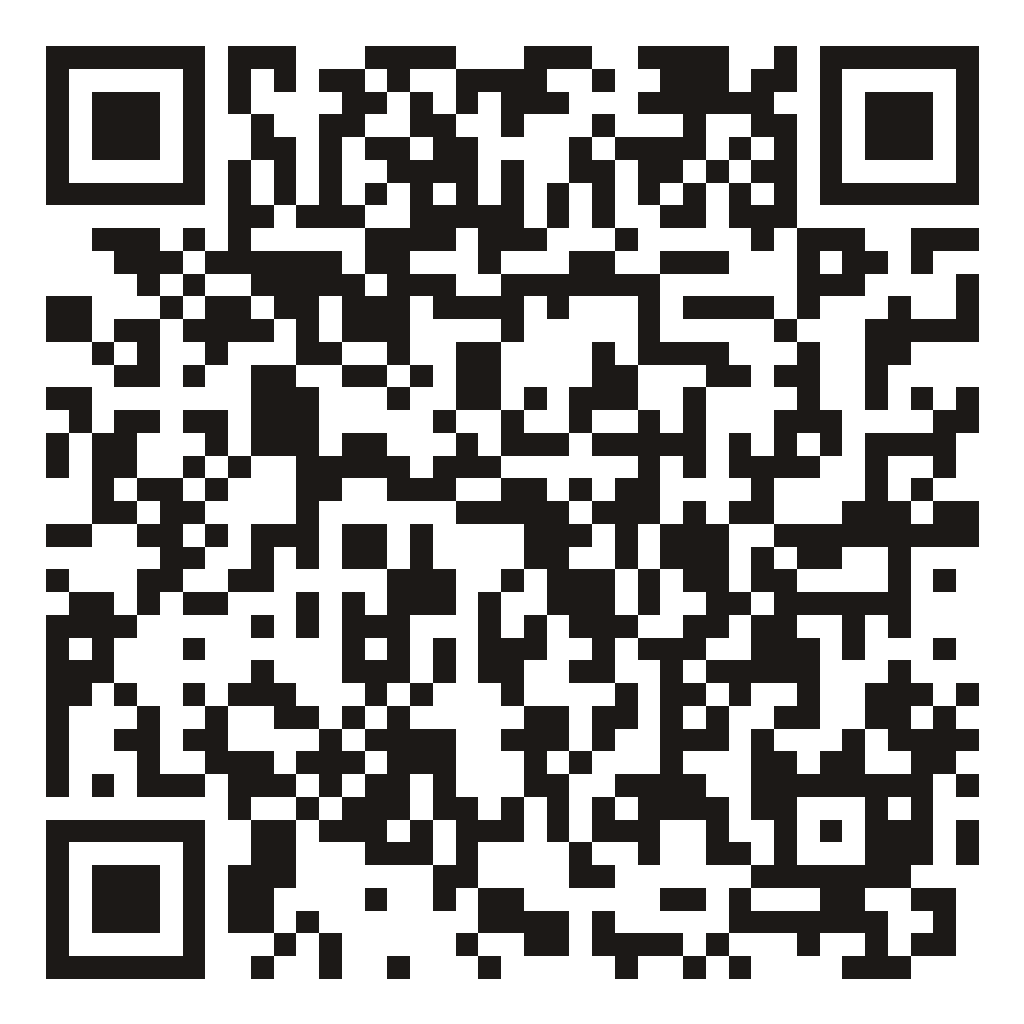
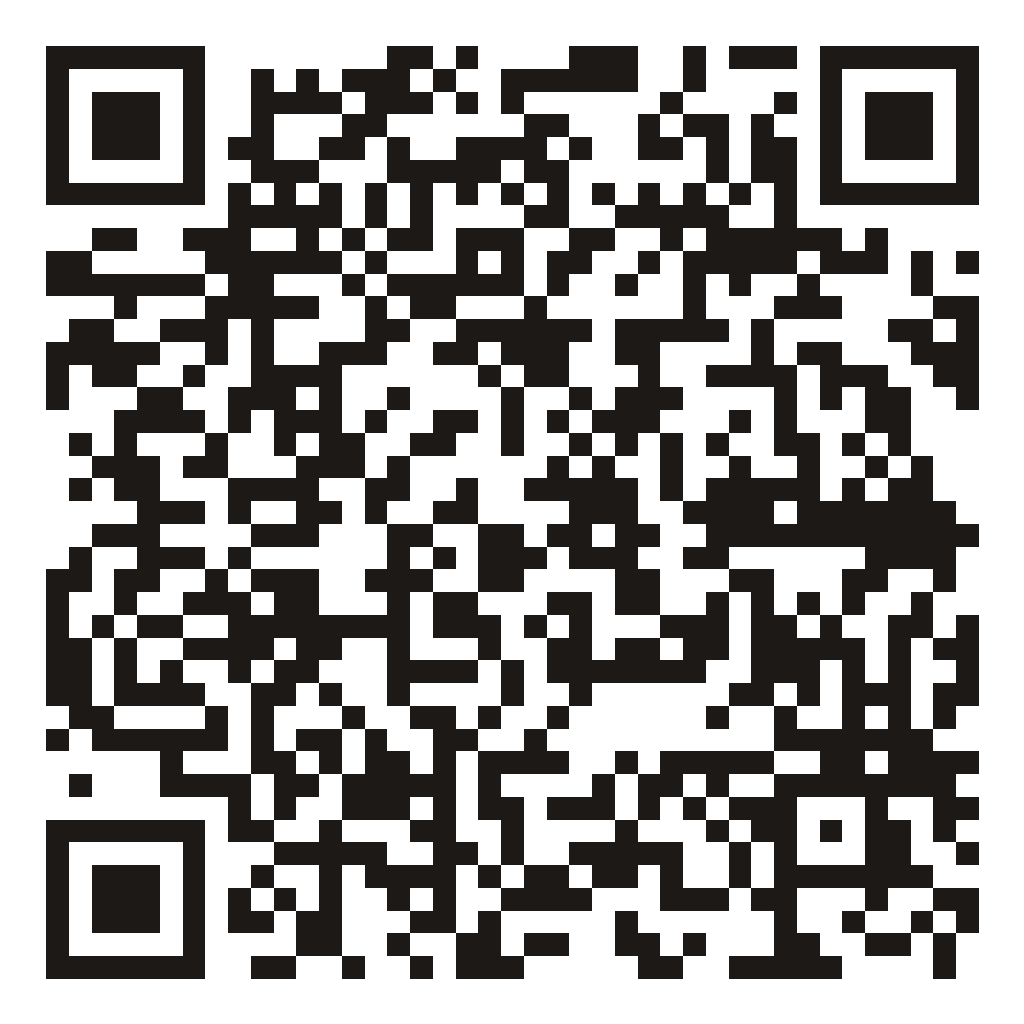
feat(prod): configure production domain for live QR codes and add localStorage resilience for Vercel deployment

diff --git a/client/public/qr-placards/index.html b/client/public/qr-placards/index.html
@@ -286,18 +286,18 @@
     <div class="url-switcher-box">
       <div style="font-size: 12px; font-weight: 700; color: #1C1917;">Sélectionnez la destination des QR codes :</div>
       <div class="url-presets">
-        <button class="btn-preset active" id="btn-local" onclick="setBaseUrl('http://192.168.1.239:3001')">
-          📱 Test Wi-Fi Smartphone (http://192.168.1.239:3001)
-        </button>
-        <button class="btn-preset" id="btn-prod" onclick="setBaseUrl('https://riadatlasacacia.com')">
+        <button class="btn-preset active" id="btn-prod" onclick="setBaseUrl('https://riadatlasacacia.com')">
           🌐 Domaine Production (https://riadatlasacacia.com)
+        </button>
+        <button class="btn-preset" id="btn-local" onclick="setBaseUrl('http://192.168.1.239:3001')">
+          📱 Test Wi-Fi Smartphone (http://192.168.1.239:3001)
         </button>
         <button class="btn-preset" id="btn-origin" onclick="setBaseUrl(window.location.origin)">
           💻 Hôte Actuel (Host)
         </button>
       </div>
       <div class="url-input-row">
-        <input type="text" id="custom-url-input" class="url-input" value="http://192.168.1.239:3001" placeholder="https://votre-domaine.com">
+        <input type="text" id="custom-url-input" class="url-input" value="https://riadatlasacacia.com" placeholder="https://votre-domaine.com">
         <button class="url-apply-btn" onclick="applyCustomUrl()">Mettre à jour les QR</button>
       </div>
     </div>
@@ -319,7 +319,7 @@
           <img id="qr-img-atlas" class="qr-img" src="/qr-placards/qr-suite-atlas.png" alt="Suite Atlas QR Code" />
         </div>
 
-        <div class="target-url-text" id="url-text-atlas">http://192.168.1.239:3001/?src=qr-room&room=atlas</div>
+        <div class="target-url-text" id="url-text-atlas">https://riadatlasacacia.com/?src=qr-room&room=atlas</div>
 
         <div class="instructions-fr">Scannez pour accéder au Guide & Room Service</div>
         <div class="instructions-en">Scan to access your Guest Guide & In-Room Service</div>
@@ -345,7 +345,7 @@
           <img id="qr-img-majorelle" class="qr-img" src="/qr-placards/qr-suite-majorelle.png" alt="Suite Majorelle QR Code" />
         </div>
 
-        <div class="target-url-text" id="url-text-majorelle">http://192.168.1.239:3001/?src=qr-room&room=majorelle</div>
+        <div class="target-url-text" id="url-text-majorelle">https://riadatlasacacia.com/?src=qr-room&room=majorelle</div>
 
         <div class="instructions-fr">Scannez pour accéder au Guide & Room Service</div>
         <div class="instructions-en">Scan to access your Guest Guide & In-Room Service</div>
@@ -371,7 +371,7 @@
           <img id="qr-img-ourika" class="qr-img" src="/qr-placards/qr-suite-ourika.png" alt="Suite Ourika QR Code" />
         </div>
 
-        <div class="target-url-text" id="url-text-ourika">http://192.168.1.239:3001/?src=qr-room&room=ourika</div>
+        <div class="target-url-text" id="url-text-ourika">https://riadatlasacacia.com/?src=qr-room&room=ourika</div>
 
         <div class="instructions-fr">Scannez pour accéder au Guide & Room Service</div>
         <div class="instructions-en">Scan to access your Guest Guide & In-Room Service</div>
@@ -397,7 +397,7 @@
           <img id="qr-img-koutoubia" class="qr-img" src="/qr-placards/qr-suite-koutoubia.png" alt="Suite Koutoubia QR Code" />
         </div>
 
-        <div class="target-url-text" id="url-text-koutoubia">http://192.168.1.239:3001/?src=qr-room&room=koutoubia</div>
+        <div class="target-url-text" id="url-text-koutoubia">https://riadatlasacacia.com/?src=qr-room&room=koutoubia</div>
 
         <div class="instructions-fr">Scannez pour accéder au Guide & Room Service</div>
         <div class="instructions-en">Scan to access your Guest Guide & In-Room Service</div>
@@ -423,7 +423,7 @@
           <img id="qr-img-makhila" class="qr-img" src="/qr-placards/qr-suite-makhila.png" alt="Suite Makhila QR Code" />
         </div>
 
-        <div class="target-url-text" id="url-text-makhila">http://192.168.1.239:3001/?src=qr-room&room=makhila</div>
+        <div class="target-url-text" id="url-text-makhila">https://riadatlasacacia.com/?src=qr-room&room=makhila</div>
 
         <div class="instructions-fr">Scannez pour accéder au Guide & Room Service</div>
         <div class="instructions-en">Scan to access your Guest Guide & In-Room Service</div>
@@ -449,7 +449,7 @@
           <img id="qr-img-mimosa" class="qr-img" src="/qr-placards/qr-suite-mimosa.png" alt="Suite Mimosa QR Code" />
         </div>
 
-        <div class="target-url-text" id="url-text-mimosa">http://192.168.1.239:3001/?src=qr-room&room=mimosa</div>
+        <div class="target-url-text" id="url-text-mimosa">https://riadatlasacacia.com/?src=qr-room&room=mimosa</div>
 
         <div class="instructions-fr">Scannez pour accéder au Guide & Room Service</div>
         <div class="instructions-en">Scan to access your Guest Guide & In-Room Service</div>
@@ -475,7 +475,7 @@
           <img id="qr-img-reception" class="qr-img" src="/qr-placards/qr-reception.png" alt="Accueil & Conciergerie QR Code" />
         </div>
 
-        <div class="target-url-text" id="url-text-reception">http://192.168.1.239:3001/?src=qr-reception</div>
+        <div class="target-url-text" id="url-text-reception">https://riadatlasacacia.com/?src=qr-reception</div>
 
         <div class="instructions-fr">Scannez pour accéder au Guide & Room Service</div>
         <div class="instructions-en">Scan to access your Guest Guide & In-Room Service</div>
@@ -501,7 +501,7 @@
           <img id="qr-img-prearrival" class="qr-img" src="/qr-placards/qr-prearrival.png" alt="Guide Pré-Arrivée QR Code" />
         </div>
 
-        <div class="target-url-text" id="url-text-prearrival">http://192.168.1.239:3001/?src=prearrival</div>
+        <div class="target-url-text" id="url-text-prearrival">https://riadatlasacacia.com/?src=prearrival</div>
 
         <div class="instructions-fr">Scannez pour accéder au Guide & Room Service</div>
         <div class="instructions-en">Scan to access your Guest Guide & In-Room Service</div>
@@ -517,7 +517,7 @@
 
   <script>
     const items = [{"id":"atlas","title":"Suite Atlas","sub":"1st Floor • 1er Étage","floor":"1er Étage / 1st Floor","path":"/?src=qr-room&room=atlas","filename":"qr-suite-atlas","badge":"Suite Privée"},{"id":"majorelle","title":"Suite Majorelle","sub":"1st Floor • 1er Étage","floor":"1er Étage / 1st Floor","path":"/?src=qr-room&room=majorelle","filename":"qr-suite-majorelle","badge":"Suite Privée"},{"id":"ourika","title":"Suite Ourika","sub":"1st Floor • 1er Étage","floor":"1er Étage / 1st Floor","path":"/?src=qr-room&room=ourika","filename":"qr-suite-ourika","badge":"Suite Privée"},{"id":"koutoubia","title":"Suite Koutoubia","sub":"1st Floor • 1er Étage","floor":"1er Étage / 1st Floor","path":"/?src=qr-room&room=koutoubia","filename":"qr-suite-koutoubia","badge":"Suite Privée"},{"id":"makhila","title":"Suite Makhila","sub":"Rooftop Terrace • Terrasse Panoramique","floor":"Terrasse Panoramique / Rooftop","path":"/?src=qr-room&room=makhila","filename":"qr-suite-makhila","badge":"Suite Terrasse"},{"id":"mimosa","title":"Suite Mimosa","sub":"Rooftop Terrace • Terrasse Panoramique","floor":"Terrasse Panoramique / Rooftop","path":"/?src=qr-room&room=mimosa","filename":"qr-suite-mimosa","badge":"Suite Terrasse"},{"id":"reception","title":"Accueil & Conciergerie","sub":"Reception & Lobby • Riad Atlas Acacia","floor":"Patio & Accueil","path":"/?src=qr-reception","filename":"qr-reception","badge":"Conciergerie 24/7"},{"id":"prearrival","title":"Guide Pré-Arrivée","sub":"Pre-Arrival Guest Guide & Transfers","floor":"Arrivée & Transfert","path":"/?src=prearrival","filename":"qr-prearrival","badge":"Bienvenue à Marrakech"}];
-    let currentBase = "http://192.168.1.239:3001";
+    let currentBase = "https://riadatlasacacia.com";
 
     function renderAllQrs(base) {
       currentBase = base.replace(/\/+$/, '');

diff --git a/client/public/qr-placards/print.html b/client/public/qr-placards/print.html
@@ -286,18 +286,18 @@
     <div class="url-switcher-box">
       <div style="font-size: 12px; font-weight: 700; color: #1C1917;">Sélectionnez la destination des QR codes :</div>
       <div class="url-presets">
-        <button class="btn-preset active" id="btn-local" onclick="setBaseUrl('http://192.168.1.239:3001')">
-          📱 Test Wi-Fi Smartphone (http://192.168.1.239:3001)
-        </button>
-        <button class="btn-preset" id="btn-prod" onclick="setBaseUrl('https://riadatlasacacia.com')">
+        <button class="btn-preset active" id="btn-prod" onclick="setBaseUrl('https://riadatlasacacia.com')">
           🌐 Domaine Production (https://riadatlasacacia.com)
+        </button>
+        <button class="btn-preset" id="btn-local" onclick="setBaseUrl('http://192.168.1.239:3001')">
+          📱 Test Wi-Fi Smartphone (http://192.168.1.239:3001)
         </button>
         <button class="btn-preset" id="btn-origin" onclick="setBaseUrl(window.location.origin)">
           💻 Hôte Actuel (Host)
         </button>
       </div>
       <div class="url-input-row">
-        <input type="text" id="custom-url-input" class="url-input" value="http://192.168.1.239:3001" placeholder="https://votre-domaine.com">
+        <input type="text" id="custom-url-input" class="url-input" value="https://riadatlasacacia.com" placeholder="https://votre-domaine.com">
         <button class="url-apply-btn" onclick="applyCustomUrl()">Mettre à jour les QR</button>
       </div>
     </div>
@@ -319,7 +319,7 @@
           <img id="qr-img-atlas" class="qr-img" src="/qr-placards/qr-suite-atlas.png" alt="Suite Atlas QR Code" />
         </div>
 
-        <div class="target-url-text" id="url-text-atlas">http://192.168.1.239:3001/?src=qr-room&room=atlas</div>
+        <div class="target-url-text" id="url-text-atlas">https://riadatlasacacia.com/?src=qr-room&room=atlas</div>
 
         <div class="instructions-fr">Scannez pour accéder au Guide & Room Service</div>
         <div class="instructions-en">Scan to access your Guest Guide & In-Room Service</div>
@@ -345,7 +345,7 @@
           <img id="qr-img-majorelle" class="qr-img" src="/qr-placards/qr-suite-majorelle.png" alt="Suite Majorelle QR Code" />
         </div>
 
-        <div class="target-url-text" id="url-text-majorelle">http://192.168.1.239:3001/?src=qr-room&room=majorelle</div>
+        <div class="target-url-text" id="url-text-majorelle">https://riadatlasacacia.com/?src=qr-room&room=majorelle</div>
 
         <div class="instructions-fr">Scannez pour accéder au Guide & Room Service</div>
         <div class="instructions-en">Scan to access your Guest Guide & In-Room Service</div>
@@ -371,7 +371,7 @@
           <img id="qr-img-ourika" class="qr-img" src="/qr-placards/qr-suite-ourika.png" alt="Suite Ourika QR Code" />
         </div>
 
-        <div class="target-url-text" id="url-text-ourika">http://192.168.1.239:3001/?src=qr-room&room=ourika</div>
+        <div class="target-url-text" id="url-text-ourika">https://riadatlasacacia.com/?src=qr-room&room=ourika</div>
 
         <div class="instructions-fr">Scannez pour accéder au Guide & Room Service</div>
         <div class="instructions-en">Scan to access your Guest Guide & In-Room Service</div>
@@ -397,7 +397,7 @@
           <img id="qr-img-koutoubia" class="qr-img" src="/qr-placards/qr-suite-koutoubia.png" alt="Suite Koutoubia QR Code" />
         </div>
 
-        <div class="target-url-text" id="url-text-koutoubia">http://192.168.1.239:3001/?src=qr-room&room=koutoubia</div>
+        <div class="target-url-text" id="url-text-koutoubia">https://riadatlasacacia.com/?src=qr-room&room=koutoubia</div>
 
         <div class="instructions-fr">Scannez pour accéder au Guide & Room Service</div>
         <div class="instructions-en">Scan to access your Guest Guide & In-Room Service</div>
@@ -423,7 +423,7 @@
           <img id="qr-img-makhila" class="qr-img" src="/qr-placards/qr-suite-makhila.png" alt="Suite Makhila QR Code" />
         </div>
 
-        <div class="target-url-text" id="url-text-makhila">http://192.168.1.239:3001/?src=qr-room&room=makhila</div>
+        <div class="target-url-text" id="url-text-makhila">https://riadatlasacacia.com/?src=qr-room&room=makhila</div>
 
         <div class="instructions-fr">Scannez pour accéder au Guide & Room Service</div>
         <div class="instructions-en">Scan to access your Guest Guide & In-Room Service</div>
@@ -449,7 +449,7 @@
           <img id="qr-img-mimosa" class="qr-img" src="/qr-placards/qr-suite-mimosa.png" alt="Suite Mimosa QR Code" />
         </div>
 
-        <div class="target-url-text" id="url-text-mimosa">http://192.168.1.239:3001/?src=qr-room&room=mimosa</div>
+        <div class="target-url-text" id="url-text-mimosa">https://riadatlasacacia.com/?src=qr-room&room=mimosa</div>
 
         <div class="instructions-fr">Scannez pour accéder au Guide & Room Service</div>
         <div class="instructions-en">Scan to access your Guest Guide & In-Room Service</div>
@@ -475,7 +475,7 @@
           <img id="qr-img-reception" class="qr-img" src="/qr-placards/qr-reception.png" alt="Accueil & Conciergerie QR Code" />
         </div>
 
-        <div class="target-url-text" id="url-text-reception">http://192.168.1.239:3001/?src=qr-reception</div>
+        <div class="target-url-text" id="url-text-reception">https://riadatlasacacia.com/?src=qr-reception</div>
 
         <div class="instructions-fr">Scannez pour accéder au Guide & Room Service</div>
         <div class="instructions-en">Scan to access your Guest Guide & In-Room Service</div>
@@ -501,7 +501,7 @@
           <img id="qr-img-prearrival" class="qr-img" src="/qr-placards/qr-prearrival.png" alt="Guide Pré-Arrivée QR Code" />
         </div>
 
-        <div class="target-url-text" id="url-text-prearrival">http://192.168.1.239:3001/?src=prearrival</div>
+        <div class="target-url-text" id="url-text-prearrival">https://riadatlasacacia.com/?src=prearrival</div>
 
         <div class="instructions-fr">Scannez pour accéder au Guide & Room Service</div>
         <div class="instructions-en">Scan to access your Guest Guide & In-Room Service</div>
@@ -517,7 +517,7 @@
 
   <script>
     const items = [{"id":"atlas","title":"Suite Atlas","sub":"1st Floor • 1er Étage","floor":"1er Étage / 1st Floor","path":"/?src=qr-room&room=atlas","filename":"qr-suite-atlas","badge":"Suite Privée"},{"id":"majorelle","title":"Suite Majorelle","sub":"1st Floor • 1er Étage","floor":"1er Étage / 1st Floor","path":"/?src=qr-room&room=majorelle","filename":"qr-suite-majorelle","badge":"Suite Privée"},{"id":"ourika","title":"Suite Ourika","sub":"1st Floor • 1er Étage","floor":"1er Étage / 1st Floor","path":"/?src=qr-room&room=ourika","filename":"qr-suite-ourika","badge":"Suite Privée"},{"id":"koutoubia","title":"Suite Koutoubia","sub":"1st Floor • 1er Étage","floor":"1er Étage / 1st Floor","path":"/?src=qr-room&room=koutoubia","filename":"qr-suite-koutoubia","badge":"Suite Privée"},{"id":"makhila","title":"Suite Makhila","sub":"Rooftop Terrace • Terrasse Panoramique","floor":"Terrasse Panoramique / Rooftop","path":"/?src=qr-room&room=makhila","filename":"qr-suite-makhila","badge":"Suite Terrasse"},{"id":"mimosa","title":"Suite Mimosa","sub":"Rooftop Terrace • Terrasse Panoramique","floor":"Terrasse Panoramique / Rooftop","path":"/?src=qr-room&room=mimosa","filename":"qr-suite-mimosa","badge":"Suite Terrasse"},{"id":"reception","title":"Accueil & Conciergerie","sub":"Reception & Lobby • Riad Atlas Acacia","floor":"Patio & Accueil","path":"/?src=qr-reception","filename":"qr-reception","badge":"Conciergerie 24/7"},{"id":"prearrival","title":"Guide Pré-Arrivée","sub":"Pre-Arrival Guest Guide & Transfers","floor":"Arrivée & Transfert","path":"/?src=prearrival","filename":"qr-prearrival","badge":"Bienvenue à Marrakech"}];
-    let currentBase = "http://192.168.1.239:3001";
+    let currentBase = "https://riadatlasacacia.com";
 
     function renderAllQrs(base) {
       currentBase = base.replace(/\/+$/, '');

diff --git a/client/src/pages/Manager.tsx b/client/src/pages/Manager.tsx
@@ -90,17 +90,31 @@ export default function Manager() {
   // Load orders
   const fetchOrders = useCallback(async () => {
     setLoadingOrders(true);
+    let loaded = false;
     try {
       const res = await fetch("/api/orders");
       if (res.ok) {
         const data = await res.json();
-        setOrders(data);
+        if (Array.isArray(data) && data.length > 0) {
+          setOrders(data);
+          loaded = true;
+        }
       }
     } catch {
       // Offline fallback
-    } finally {
-      setLoadingOrders(false);
     }
+
+    if (!loaded) {
+      try {
+        const local = JSON.parse(localStorage.getItem("riad_orders") || "[]");
+        if (Array.isArray(local)) {
+          setOrders(local);
+        }
+      } catch {
+        // Ignored
+      }
+    }
+    setLoadingOrders(false);
   }, []);
 
   // Load stock
@@ -109,10 +123,21 @@ export default function Manager() {
       const res = await fetch("/api/stock");
       if (res.ok) {
         const data = await res.json();
-        setStock(data);
+        if (data && typeof data === "object") {
+          setStock(data);
+          return;
+        }
       }
     } catch {
       // Offline fallback
+    }
+    try {
+      const local = JSON.parse(localStorage.getItem("riad_stock") || "{}");
+      if (local && typeof local === "object") {
+        setStock(local);
+      }
+    } catch {
+      // Ignored
     }
   }, []);
 
@@ -125,17 +150,22 @@ export default function Manager() {
   }, [fetchOrders, fetchStock]);
 
   const updateOrderStatus = async (orderId: string, nextStatus: Order["status"]) => {
+    setOrders((prev) => {
+      const updated = prev.map((o) => (o.id === orderId ? { ...o, status: nextStatus } : o));
+      try {
+        localStorage.setItem("riad_orders", JSON.stringify(updated));
+      } catch {
+        // Ignored
+      }
+      return updated;
+    });
+
     try {
-      const res = await fetch(`/api/orders/${orderId}`, {
+      await fetch(`/api/orders/${orderId}`, {
         method: "PATCH",
         headers: { "Content-Type": "application/json" },
         body: JSON.stringify({ status: nextStatus }),
       });
-      if (res.ok) {
-        setOrders((prev) =>
-          prev.map((o) => (o.id === orderId ? { ...o, status: nextStatus } : o))
-        );
-      }
     } catch {
       // Ignored
     }
@@ -144,15 +174,22 @@ export default function Manager() {
   const toggleStock = async (itemId: string, currentAvailable: boolean) => {
     const nextState = !currentAvailable;
     setStockSaving(itemId);
+    setStock((prev) => {
+      const updated = { ...prev, [itemId]: nextState };
+      try {
+        localStorage.setItem("riad_stock", JSON.stringify(updated));
+      } catch {
+        // Ignored
+      }
+      return updated;
+    });
+
     try {
-      const res = await fetch("/api/stock", {
+      await fetch("/api/stock", {
         method: "POST",
         headers: { "Content-Type": "application/json" },
         body: JSON.stringify({ [itemId]: nextState }),
       });
-      if (res.ok) {
-        setStock((prev) => ({ ...prev, [itemId]: nextState }));
-      }
     } catch {
       // Ignored
     } finally {

diff --git a/client/src/lib/orderLogger.ts b/client/src/lib/orderLogger.ts
@@ -15,6 +15,22 @@ export interface OrderLog {
 }
 
 export async function logOrder(order: OrderLog): Promise<void> {
+  // Always persist locally in browser storage so order is recorded even on static hosts (Vercel)
+  try {
+    const existing = JSON.parse(localStorage.getItem("riad_orders") || "[]");
+    const newOrder = {
+      id: Math.random().toString(36).substring(2, 8),
+      timestamp: new Date().toISOString(),
+      status: "new",
+      ...order,
+    };
+    existing.unshift(newOrder);
+    localStorage.setItem("riad_orders", JSON.stringify(existing.slice(0, 100)));
+  } catch {
+    // Local storage full or unavailable
+  }
+
+  // Also POST to /api/orders (when running with backend)
   try {
     await fetch("/api/orders", {
       method: "POST",

diff --git a/client/src/components/CatalogSection.tsx b/client/src/components/CatalogSection.tsx
@@ -41,8 +41,17 @@ export default function CatalogSection({
   useEffect(() => {
     fetch('/api/stock')
       .then(res => res.json())
-      .then(data => setStock(data))
-      .catch(() => {});
+      .then(data => {
+        if (data && typeof data === 'object') setStock(data);
+      })
+      .catch(() => {
+        try {
+          const local = JSON.parse(localStorage.getItem('riad_stock') || '{}');
+          if (local && typeof local === 'object') setStock(local);
+        } catch {
+          // Ignored
+        }
+      });
   }, []);
 
   const filteredItems = items.filter(item => {
